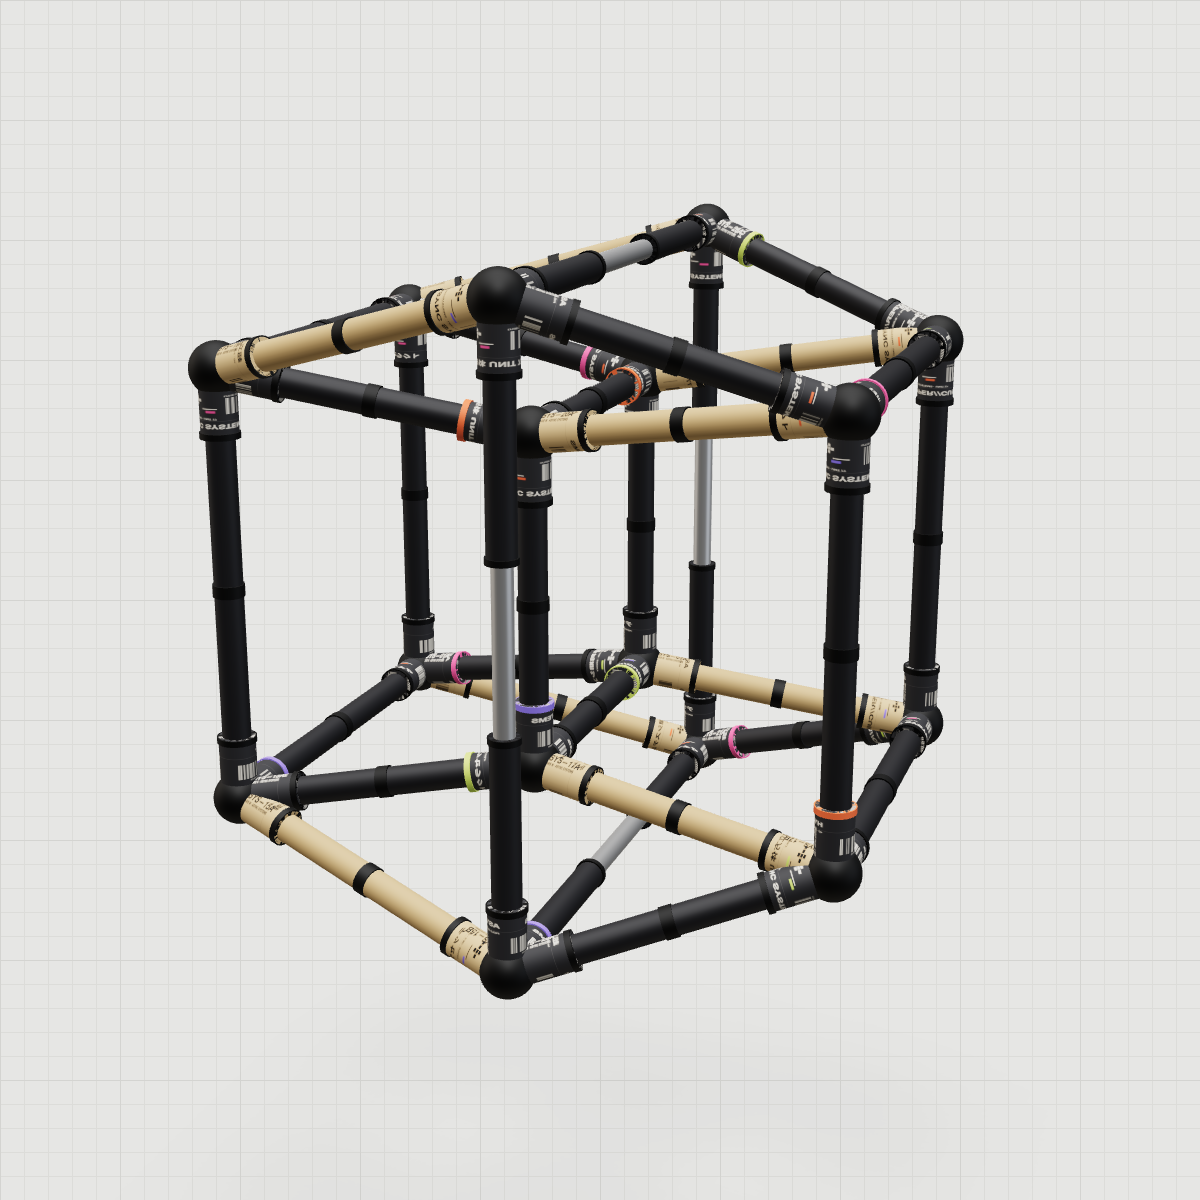
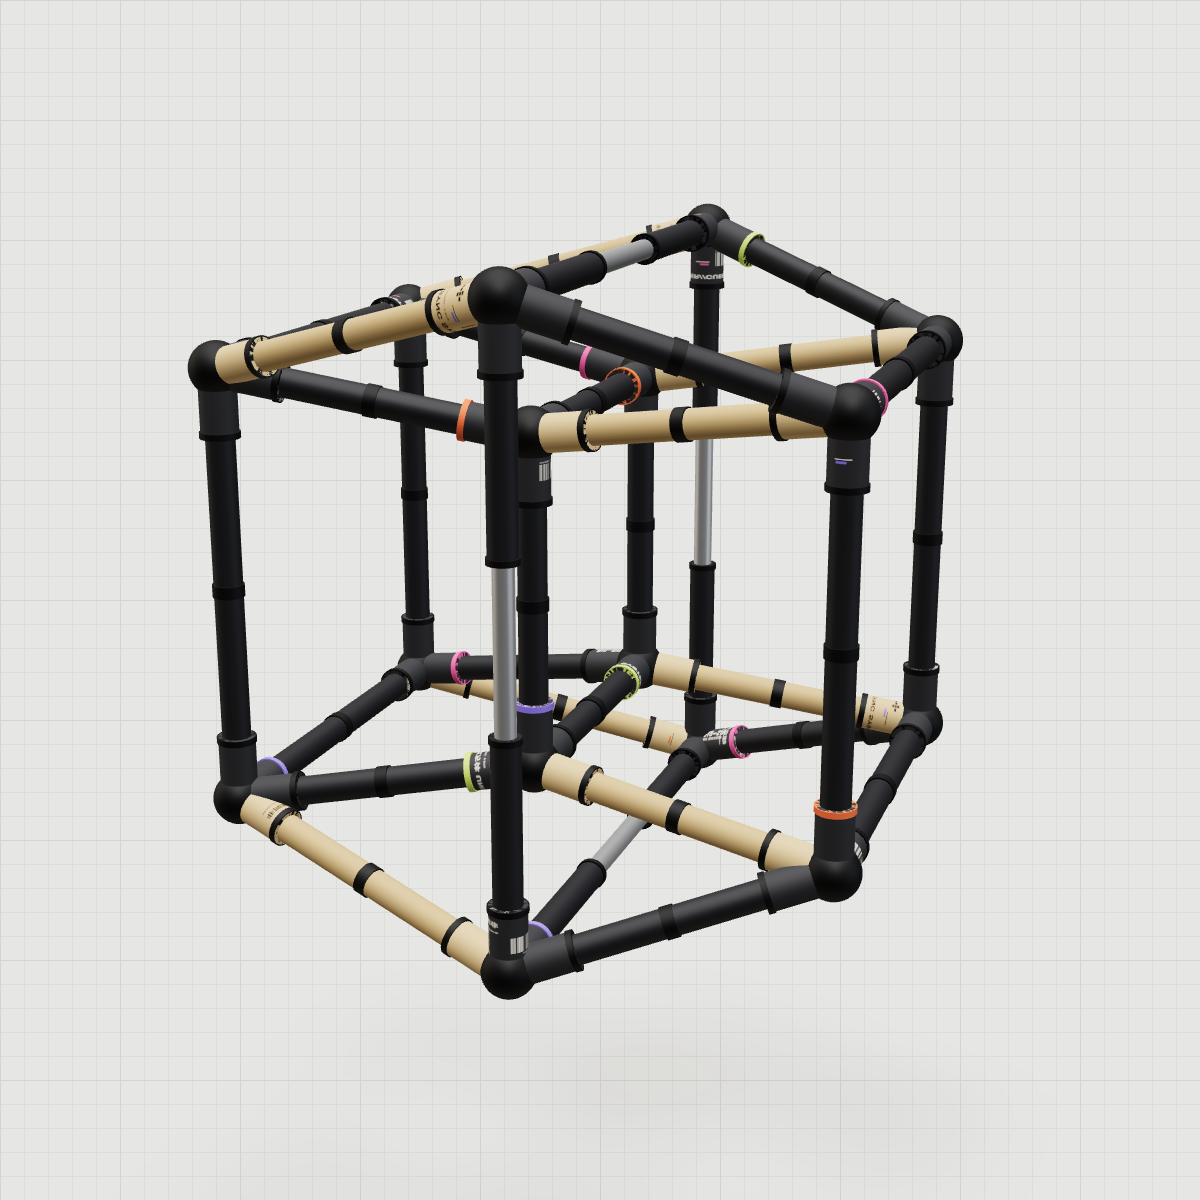
feat: 08 fewer decals, plain paint on two sleeves in three

diff --git a/08/src/decals.ts b/08/src/decals.ts
@@ -39,9 +39,13 @@ export function sleeveDecal(d: Decal): THREE.CanvasTexture {
 
   g.fillStyle = d.base;
   g.fillRect(0, 0, W, H);
+  // a sleeve carries a few of these, not all: hazard band, brand, serial, barcode, tab, pictogram
+  const has = { hazard: r() < 0.35, brand: r() < 0.6, serial: r() < 0.5, barcode: r() < 0.3, tab: r() < 0.5, picto: r() < 0.25 };
+  if (!has.brand && !has.serial) has.serial = true;
 
   // hazard band at the mouth
   const hz = 34;
+  if (has.hazard) {
   g.save();
   g.beginPath(); g.rect(0, 0, W, hz); g.clip();
   g.fillStyle = d.ink;
@@ -51,15 +55,16 @@ export function sleeveDecal(d: Decal): THREE.CanvasTexture {
   g.restore();
   g.fillStyle = d.ink;
   g.fillRect(0, hz, W, 3);
+  }
 
-  // hairlines
+  // a hairline
   g.fillStyle = d.ink;
   g.globalAlpha = 0.35;
   g.fillRect(0, H - 28, W, 2);
-  g.fillRect(0, 150, W, 1);
   g.globalAlpha = 1;
 
   // brand, round the tube. The cylinder's u runs the other way round, so text round it is drawn mirrored.
+  if (has.brand) {
   g.save();
   g.translate(W, 0);
   g.scale(-1, 1);
@@ -71,10 +76,12 @@ export function sleeveDecal(d: Decal): THREE.CanvasTexture {
   g.fillText(brand, bx, 110);
   g.fillText(brand, bx + W, 110);
   g.font = '500 17px "Helvetica Neue", Helvetica, Arial, sans-serif';
-  g.fillText(pick(SMALL), bx + 2, 150 + 16);
+  if (r() < 0.5) g.fillText(pick(SMALL), bx + 2, 150 + 16);
   g.restore();
+  }
 
   // serial, along the tube
+  if (has.serial) {
   g.save();
   g.translate(W - 96, H - 40);
   g.rotate(-Math.PI / 2);
@@ -84,8 +91,10 @@ export function sleeveDecal(d: Decal): THREE.CanvasTexture {
   g.font = '600 18px "Helvetica Neue", Helvetica, Arial, sans-serif';
   g.fillText(`AXIS ${d.axis} · ASYNC SYSTEMS`, 0, 22);
   g.restore();
+  }
 
   // barcode
+  if (has.barcode) {
   g.save();
   g.translate(40, 200);
   let x = 0;
@@ -99,16 +108,21 @@ export function sleeveDecal(d: Decal): THREE.CanvasTexture {
   g.scale(-1, 1);
   g.fillText(`${d.serial.replace('—', '')}-${Math.floor(r() * 9000 + 1000)}`, 0, 0);
   g.restore();
+  }
 
   // a coloured tab, and a black one
-  g.fillStyle = d.accent;
-  g.fillRect(220 + Math.floor(r() * 60), 210, 44, 16);
-  g.fillStyle = d.ink;
-  g.fillRect(220 + Math.floor(r() * 60), 236, 70, 6);
-  // a little pictogram: four squares, the net of a cube
-  g.fillStyle = d.ink;
-  const px = 300, py = 290;
-  for (const [i, j] of [[0, 0], [1, 0], [2, 0], [1, 1], [1, -1], [3, 0]]) g.fillRect(px + i * 22, py + j * 22, 18, 18);
+  if (has.tab) {
+    g.fillStyle = d.accent;
+    g.fillRect(220 + Math.floor(r() * 60), 210, 44, 16);
+    g.fillStyle = d.ink;
+    g.fillRect(220 + Math.floor(r() * 60), 236, 70, 6);
+  }
+  // a little pictogram: the net of a cube
+  if (has.picto) {
+    g.fillStyle = d.ink;
+    const px = 300, py = 290;
+    for (const [i, j] of [[0, 0], [1, 0], [2, 0], [1, 1], [1, -1], [3, 0]]) g.fillRect(px + i * 22, py + j * 22, 18, 18);
+  }
 
   const t = new THREE.CanvasTexture(c);
   t.colorSpace = THREE.SRGBColorSpace;

diff --git a/08/src/Machine.tsx b/08/src/Machine.tsx
@@ -34,6 +34,11 @@ export function Machine() {
       new THREE.MeshStandardMaterial({ color: '#c8a874', roughness: 0.7, metalness: 0.05 }),
     ];
     const accents = ACCENTS.map((c) => new THREE.MeshStandardMaterial({ color: c, roughness: 0.6 }));
+    // most sleeves are plain paint; one in three carries a decal
+    const plain = [
+      new THREE.MeshStandardMaterial({ color: GRAPHITE, roughness: 0.62, metalness: 0.05 }),
+      new THREE.MeshStandardMaterial({ color: SAND, roughness: 0.78, metalness: 0.05 }),
+    ];
 
     const mesh = (g: THREE.BufferGeometry, m: THREE.Material) => {
       const o = new THREE.Mesh(g, m);
@@ -47,6 +52,7 @@ export function Machine() {
       const sand = e.axis === 3;
       const axis = 'XYZW'[e.axis];
       const sleeves = [0, 1].map((end) => {
+        if ((i * 2 + end) % 3 !== 1) return mesh(cyl, plain[sand ? 1 : 0]);
         const serial = `SYS—${String(i + 1).padStart(2, '0')}${end ? 'B' : 'A'}`;
         const accent = ACCENTS[(i * 3 + end) % ACCENTS.length];
         const map = sleeveDecal({ base: sand ? SAND : GRAPHITE, ink: sand ? INK : PAPER, serial, axis, seed: seed++, accent });

diff --git a/08/README.md b/08/README.md
@@ -10,7 +10,7 @@ TESSERAKT, a hypercube built for real. A tesseract cannot exist in three dimensi
 - **Servo** (`state.ts`): an underdamped spring on the crank angle, stiff (ω ≈ 19) and bouncy (ζ 0.42), so a step lands with a visible overshoot and a short settle. A program picks the targets: mostly 15° and 30°, a 90° now and then, a twitch back one time in four for the small ones, a hold of 0.35 to 2.4 s after, one in four a quick second step. The turntable is a softer spring on the same idea, a step every few seconds. Keys and shift-drag move the target, the spring does the rest.
 - **Struts** (`Machine.tsx`): per edge, a sleeve sunk into each ball, a stanchion sliding out of each sleeve as far as the strut needs up to 0.8, and a rod between the stanchions taking the rest. Each stage overlaps the one round it by 0.1 so nothing shows daylight. Two sleeves fully compressed are 0.65 with the balls, under the shortest strut. Seals are short fat rings at every mouth.
 - **Colour**: the eight edges along w are sand, the other 24 graphite, so you can follow which edges are which as the inner cube turns out and the outer turns in.
-- **Decals** (`decals.ts`): one canvas per sleeve, x round the tube, y along it, the open end at the top: hazard band at the mouth, brand round the tube, serial along it, barcode, a coloured tab, a cube's net as pictogram. Seeded, so the same every load.
+- **Decals** (`decals.ts`): canvas textures on the cylinder UVs, not `DecalGeometry`. One sleeve in three has one, the rest are plain paint; x runs round the tube, y along it, the open end at the top. Each carries a few of: hazard band at the mouth, brand round the tube, serial along it, barcode, a coloured tab, a cube's net as pictogram. Seeded, so the same every load.
 - **Light**: drei `Environment` from four `Lightformer`s, no HDR download, plus one directional. `ContactShadows` on a transparent canvas, the graph paper is CSS.
 
 ## Learned
